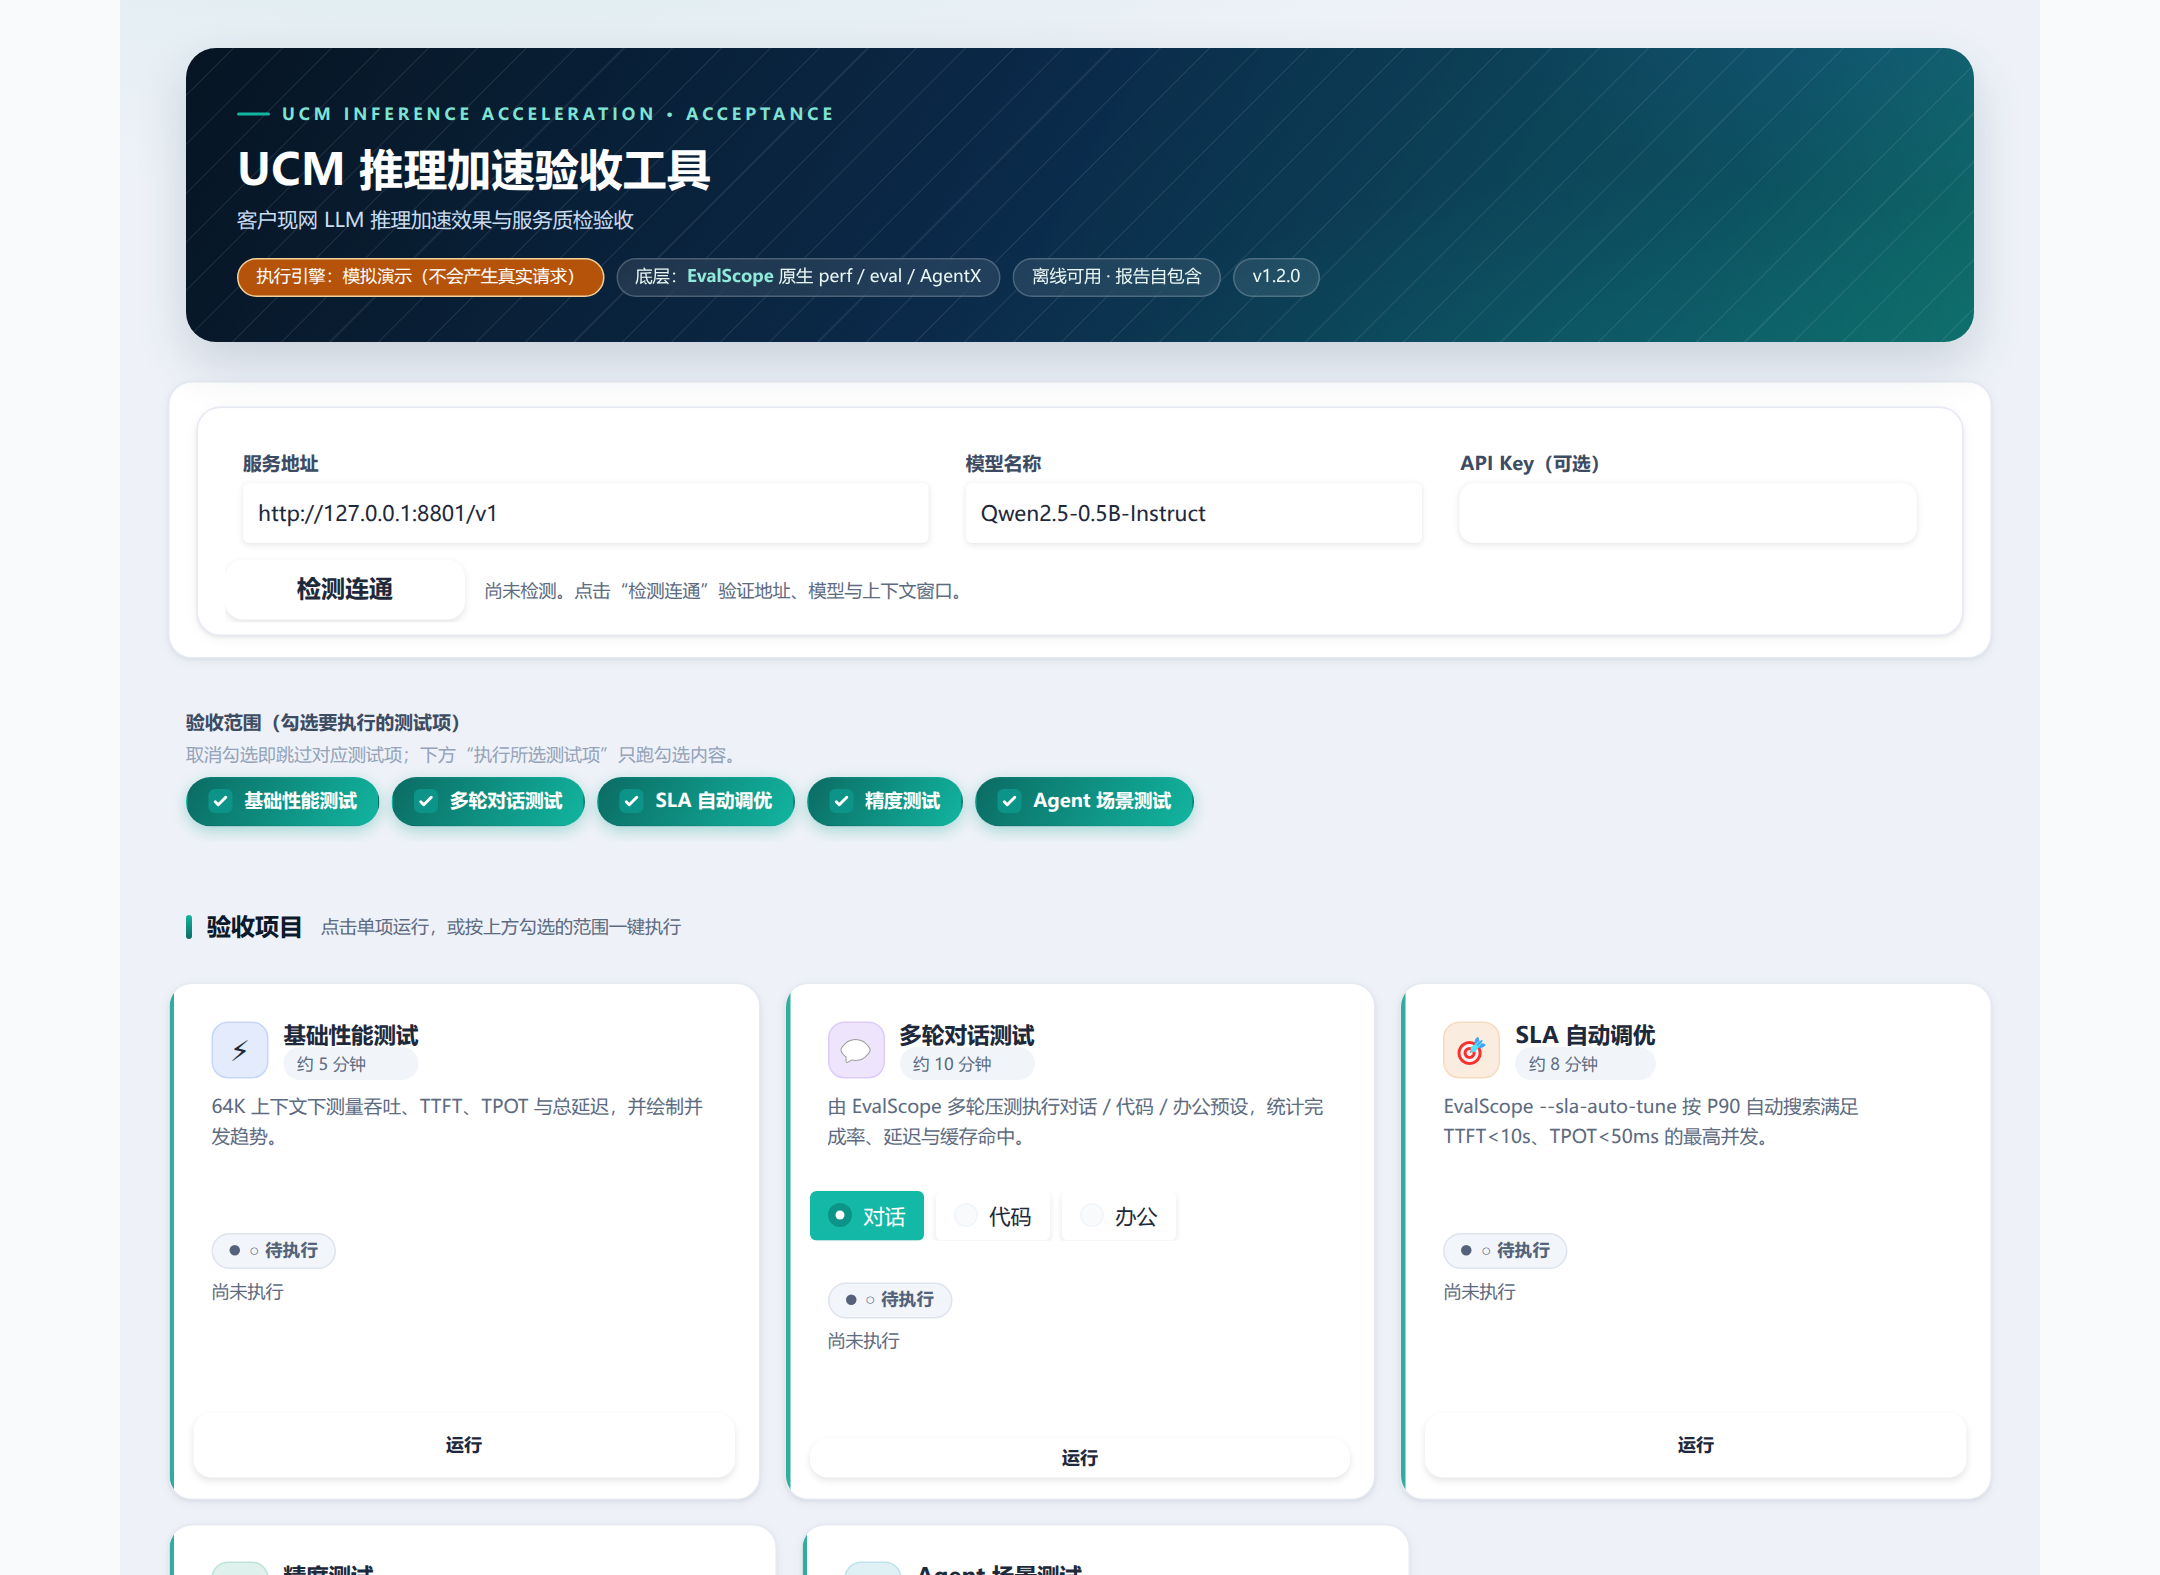
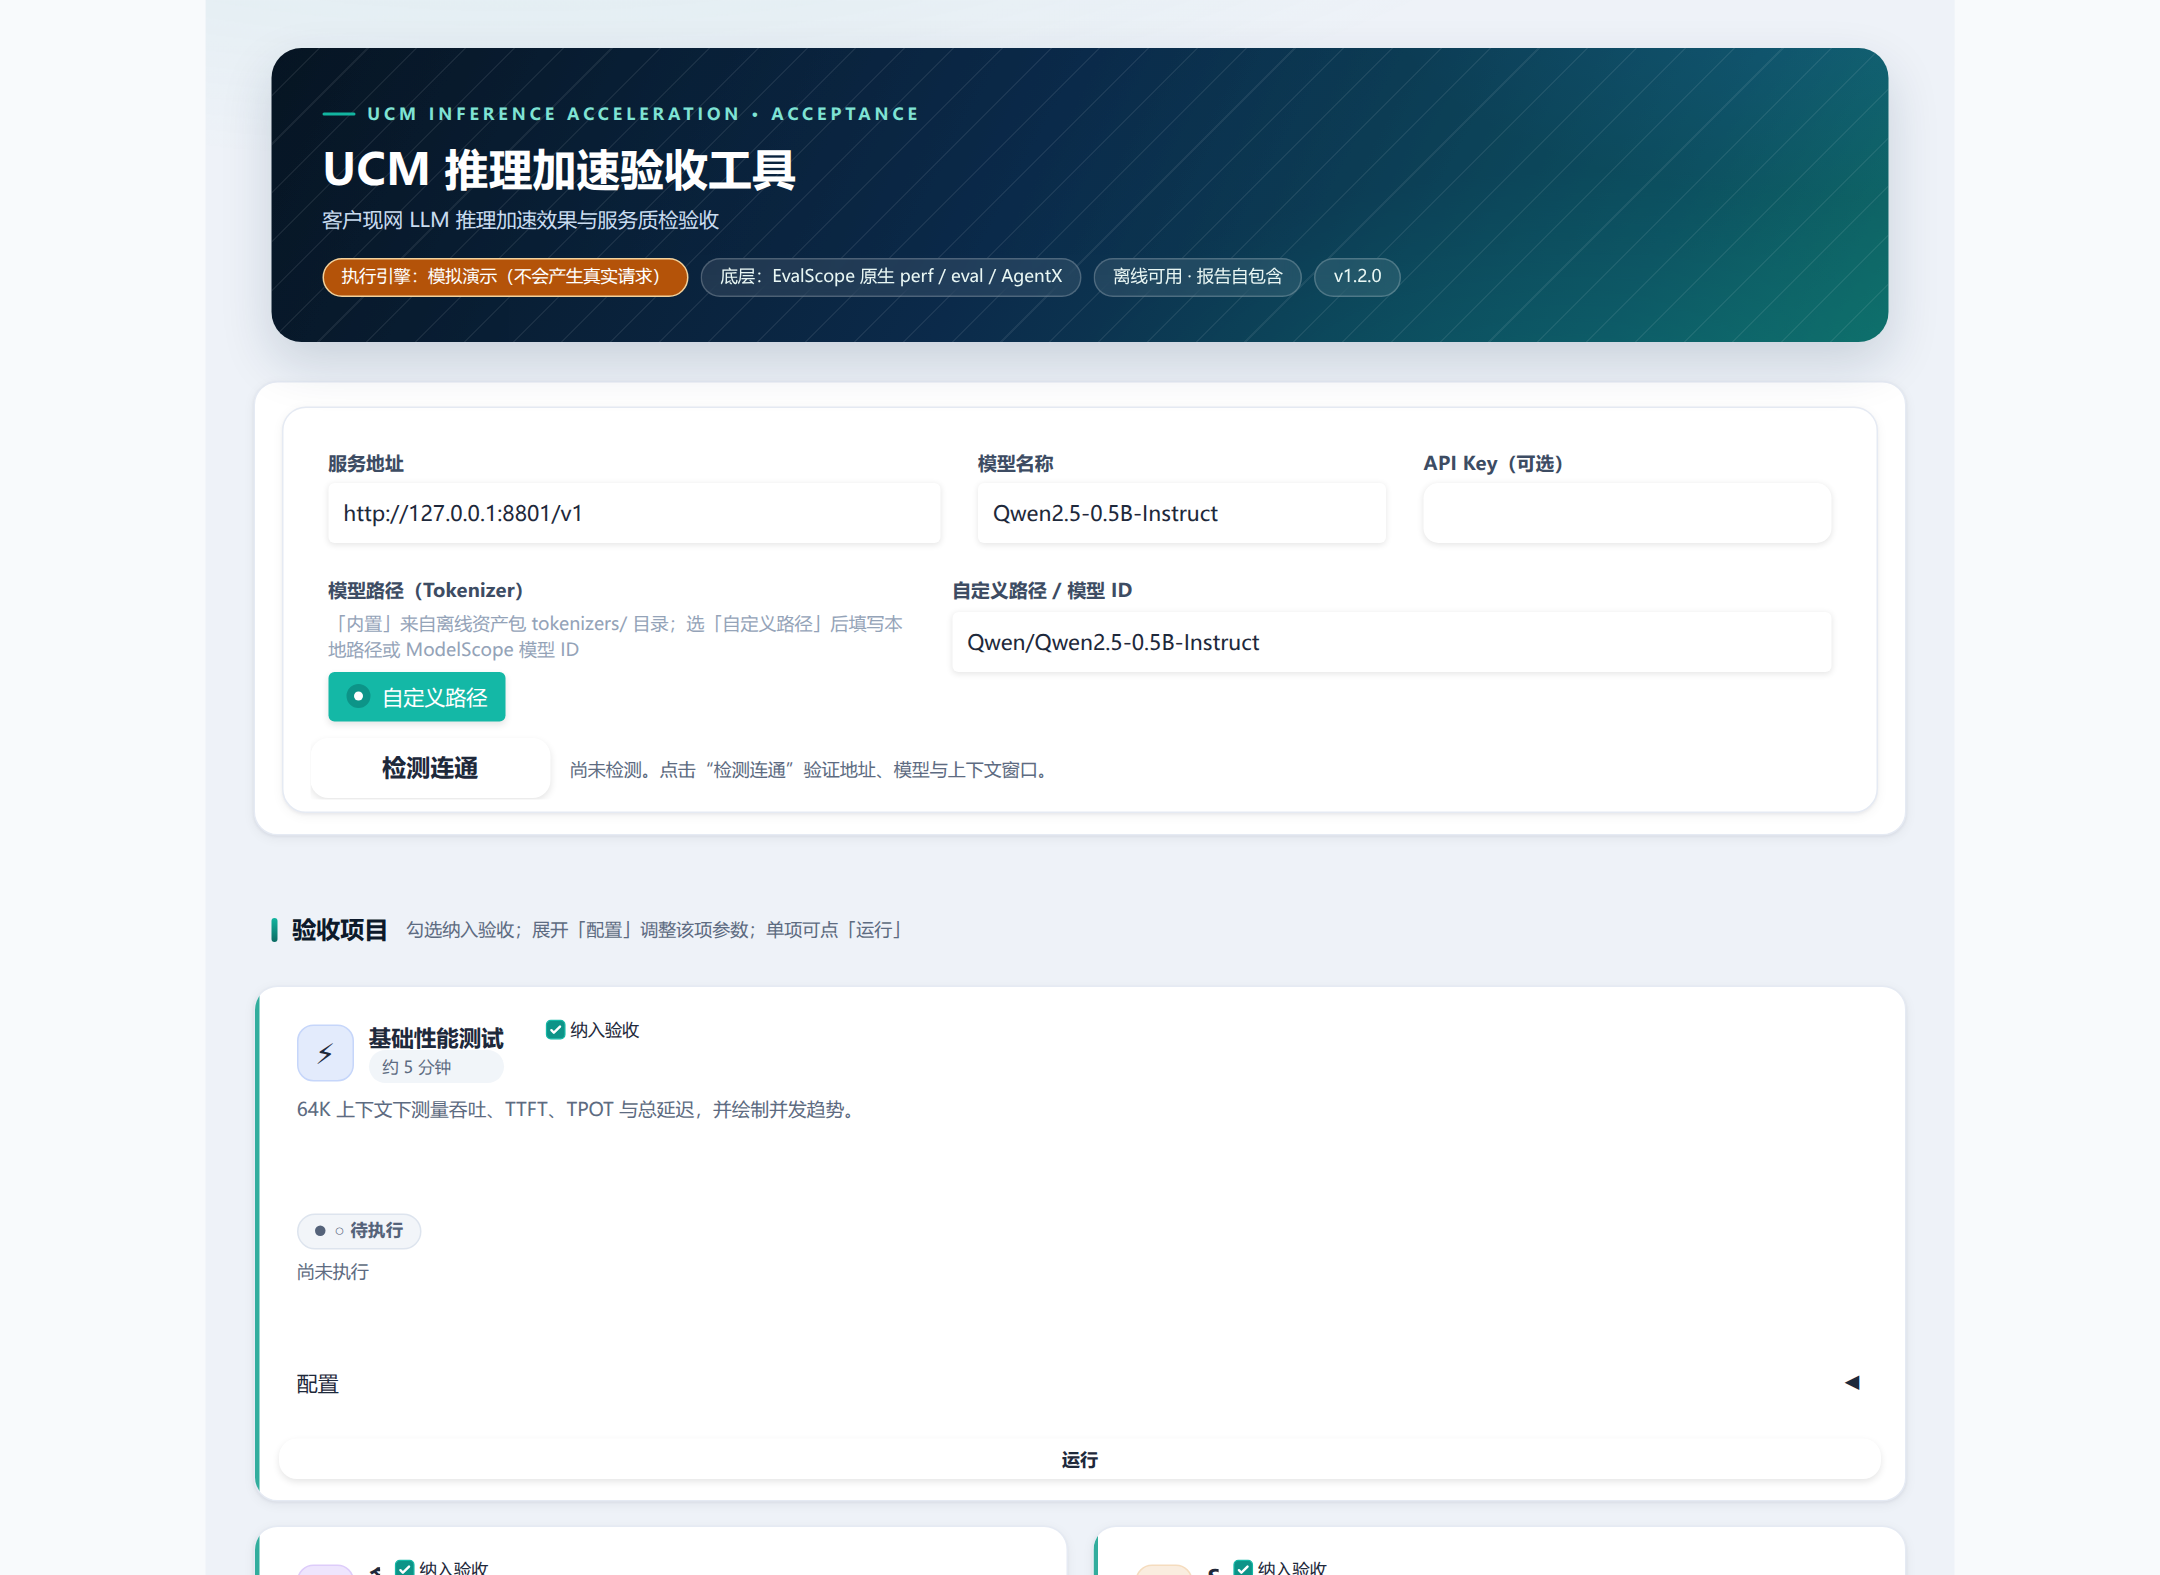
feat: GitHub Pages UI preview; refresh screenshots
- scripts/capture_gui.py: launches mock GUI, captures home / card-config /
  report screenshots via Playwright, builds a static preview site
- pages.yml: on every push to main, deploys the preview site to GitHub
  Pages (actions/deploy-pages); README links the published URL
- docs/gui-preview.png: refreshed to the final card-embedded layout

diff --git a/scripts/capture_gui.py b/scripts/capture_gui.py
@@ -1,0 +1,143 @@
+#!/usr/bin/env python3
+"""启动 mock GUI 并用 Playwright 截图，产出 GitHub Pages 预览站点。
+
+产物结构（--out 指定目录）：
+    index.html            截图索引页
+    screenshots/*.png     界面截图（首页 / 卡内配置展开 / 报告）
+
+用法：
+    python scripts/capture_gui.py --out site
+CI 中配合 actions/deploy-pages 发布为 GitHub Pages。
+"""
+
+from __future__ import annotations
+
+import argparse
+import http.client
+import shutil
+import subprocess
+import sys
+import time
+from pathlib import Path
+
+ROOT = Path(__file__).resolve().parents[1]
+PORT = 8321
+BASE_URL = f"http://127.0.0.1:{PORT}"
+
+
+def wait_ready(seconds: int = 60) -> bool:
+    for _ in range(seconds // 2):
+        try:
+            conn = http.client.HTTPConnection("127.0.0.1", PORT, timeout=3)
+            conn.request("GET", "/")
+            conn.getresponse().read()
+            conn.close()
+            return True
+        except OSError:
+            time.sleep(2)
+    return False
+
+
+def capture(out_dir: Path) -> list[dict]:
+    from playwright.sync_api import sync_playwright
+
+    shots = [
+        ("home", "首页 — 服务地址、模型路径与五张测试卡片", None),
+        ("card-config", "测试卡片 — 展开卡内「配置」调整该项参数", ("#card-multiturn", ".card-config")),
+        ("report", "验收报告 — 自包含 HTML，离线归档与分发", None),
+    ]
+    pages = []
+    with sync_playwright() as p:
+        browser = p.chromium.launch(args=["--no-sandbox"])
+        page = browser.new_page(viewport={"width": 1440, "height": 1050}, device_scale_factor=1.5)
+        page.goto(BASE_URL, wait_until="domcontentloaded")
+        page.wait_for_selector(".ucm-hero", timeout=30000)
+        page.wait_for_timeout(2500)
+        for name, caption, click_sel in shots:
+            if click_sel:
+                for sel in click_sel:
+                    page.locator(sel).first.click()
+                    page.wait_for_timeout(600)
+            path = out_dir / "screenshots" / f"{name}.png"
+            path.parent.mkdir(parents=True, exist_ok=True)
+            page.screenshot(path=str(path), full_page=(name == "report"))
+            pages.append({"file": f"screenshots/{name}.png", "caption": caption})
+        browser.close()
+    return pages
+
+
+def write_index(out_dir: Path, pages: list[dict]) -> None:
+    cards = "\n".join(
+        f"""
+        <figure>
+          <img src="{page['file']}" alt="{page['caption']}">
+          <figcaption>{page['caption']}</figcaption>
+        </figure>"""
+        for page in pages
+    )
+    (out_dir / "index.html").write_text(
+        f"""<!DOCTYPE html>
+<html lang="zh_CN">
+<head>
+<meta charset="utf-8">
+<meta name="viewport" content="width=device-width, initial-scale=1">
+<title>UCM 验收工具 · 界面预览</title>
+<style>
+  body {{ margin: 0; background: #eef2f8; color: #0d1a2b; font-family: "Segoe UI", "Microsoft YaHei", sans-serif; }}
+  header {{ background: linear-gradient(118deg, #071523, #0b2a4a 46%, #0d5060 84%); color: #fff; padding: 28px 34px; }}
+  header h1 {{ margin: 0 0 6px; font-size: 24px; }}
+  header p {{ margin: 0; color: #c9dcf0; font-size: 13px; }}
+  main {{ max-width: 1180px; margin: 24px auto; padding: 0 16px; }}
+  figure {{ margin: 0 0 28px; background: #fff; border-radius: 14px; overflow: hidden;
+           box-shadow: 0 4px 14px rgba(13, 26, 43, .08); }}
+  figure img {{ width: 100%; display: block; }}
+  figcaption {{ padding: 10px 16px; font-size: 13px; color: #5d6b81; border-top: 1px solid #e5eaf3; }}
+  footer {{ text-align: center; color: #8090a6; font-size: 12px; padding: 16px; }}
+</style>
+</head>
+<body>
+<header>
+  <h1>UCM 推理加速验收工具 · 界面预览</h1>
+  <p>以下截图由 CI 在每次 main 分支更新时自动生成（mock 模式，不产生真实请求）。</p>
+</header>
+<main>{cards}</main>
+<footer>ucm-accept · GitHub Pages 自动发布</footer>
+</body>
+</html>
+""",
+        encoding="utf-8",
+    )
+
+
+def main() -> int:
+    parser = argparse.ArgumentParser(description="生成 GitHub Pages 界面预览站点")
+    parser.add_argument("--out", default="site", help="站点输出目录")
+    args = parser.parse_args()
+    out_dir = Path(args.out).resolve()
+    if shutil.which("uvloop") is None and sys.platform == "win32":
+        pass
+
+    gui = subprocess.Popen(
+        [sys.executable, "-m", "ucm_accept", "--gui", "--mock", "--fast", "--no-browser",
+         "--port", str(PORT), "--outputs", str(out_dir / "outputs")],
+        stdout=subprocess.DEVNULL, stderr=subprocess.DEVNULL, cwd=str(ROOT),
+    )
+    try:
+        if not wait_ready():
+            print(f"GUI 未在 {BASE_URL} 就绪", file=sys.stderr)
+            return 1
+        try:
+            pages = capture(out_dir)
+        finally:
+            subprocess.run(["taskkill", "/F", "/PID", str(gui.pid)] if sys.platform == "win32"
+                           else ["kill", str(gui.pid)], capture_output=True)
+    finally:
+        if gui.poll() is None:
+            gui.terminate()
+    write_index(out_dir, pages)
+    print(f"站点已生成：{out_dir}")
+    return 0
+
+
+if __name__ == "__main__":
+    raise SystemExit(main())

diff --git a/README.md b/README.md
@@ -6,6 +6,9 @@
 
 ![UCM 验收工具 GUI](docs/gui-preview.png)
 
+> 界面实时预览：main 分支每次更新后，CI 自动截图发布到 GitHub Pages ——
+> **https://ucm-system.github.io/ucm-accept/**
+
 ---
 
 ## 1. 安装
